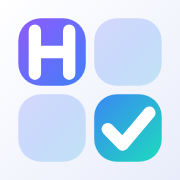
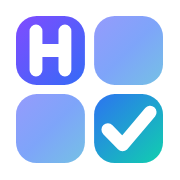
D2 아이콘 전면 적용 + 바이올렛·청록 팔레트 통일
Claude-Session: https://claude.ai/code/session_01B82UywTETwewTykhEM5Uby

diff --git a/style.css b/style.css
@@ -4,13 +4,13 @@
   --fs-1: 16px; --fs-2: 14px; --fs-3: 13px; --fs-4: 12px; --fs-5: 11px;
   --r-xs: 4px; --r-sm: 6px; --r-md: 8px; --r-lg: 12px; --r-xl: 16px; --r-pill: 99px;
   --bg: #ffffff; --bg2: #f5f6f8; --text: #1b1d21; --mut: #8b9098; --line: #ebedf0;
-  --accent: #2563eb; --sel: #f1f5ff; --sun: #e5484d; --sat: #2563eb;
+  --accent: #6d4aff; --accent2: #12c9b3; --grad: linear-gradient(135deg, #7c4dff 0%, #2f6df6 55%, #12c9b3 100%); --sel: #f4f1ff; --sun: #e5484d; --sat: #2f6df6;
   --font: "SUITE", -apple-system, BlinkMacSystemFont, "Segoe UI", "Malgun Gothic", "Apple SD Gothic Neo", "Noto Sans KR", sans-serif;
 }
-:root[data-theme="dark"] { color-scheme: dark; --bg: #16181c; --bg2: #1d2025; --text: #e8eaed; --mut: #8a9099; --line: #2a2e35; --accent: #5b8def; --sel: #1b2436; --sun: #ff6b6f; --sat: #6ea0ff; }
+:root[data-theme="dark"] { color-scheme: dark; --bg: #16181c; --bg2: #1d2025; --text: #e8eaed; --mut: #8a9099; --line: #2a2e35; --accent: #9b82ff; --sel: #241f3d; --sun: #ff6b6f; --sat: #6ea0ff; }
 :root[data-theme="light"] { color-scheme: light; }
 @media (prefers-color-scheme: dark) {
-  :root:not([data-theme="light"]) { color-scheme: dark; --bg: #16181c; --bg2: #1d2025; --text: #e8eaed; --mut: #8a9099; --line: #2a2e35; --accent: #5b8def; --sel: #1b2436; --sun: #ff6b6f; --sat: #6ea0ff; }
+  :root:not([data-theme="light"]) { color-scheme: dark; --bg: #16181c; --bg2: #1d2025; --text: #e8eaed; --mut: #8a9099; --line: #2a2e35; --accent: #9b82ff; --sel: #241f3d; --sun: #ff6b6f; --sat: #6ea0ff; }
 }
 * { box-sizing: border-box; }
 [hidden] { display: none !important; }
@@ -70,12 +70,12 @@ input[type=text]:focus, textarea:focus, select:focus { border-color: var(--accen
 .ct { display: flex; justify-content: space-between; align-items: center; height: 21px; flex: none; }
 .dn { font-size: 12px; line-height: 20px; }
 .cell.sun .dn { color: var(--sun); } .cell.sat .dn { color: var(--sat); }
-.cell.today .dn { background: var(--accent); color: #fff; border-radius: 99px; padding: 0 6px; min-width: 20px; text-align: center; }
+.cell.today .dn { background: var(--grad); color: #fff; border-radius: 99px; padding: 0 6px; min-width: 20px; text-align: center; }
 .sb { flex: 1; min-width: 0; display: flex; gap: 4px; align-items: center; margin: 0 4px; overflow: hidden; white-space: nowrap; font-size: 10px; color: var(--mut); }
 .sb i { font-style: normal; overflow: hidden; text-overflow: ellipsis; }
-.sb .hn { color: var(--sun); font-weight: 600; } .sb .tm { color: #0b7a53; }
-:root[data-theme="dark"] .sb .tm { color: #4fd1a1; }
-@media (prefers-color-scheme: dark) { :root:not([data-theme="light"]) .sb .tm { color: #4fd1a1; } }
+.sb .hn { color: var(--sun); font-weight: 600; } .sb .tm { color: #0b8f80; }
+:root[data-theme="dark"] .sb .tm { color: #3fe0cc; }
+@media (prefers-color-scheme: dark) { :root:not([data-theme="light"]) .sb .tm { color: #3fe0cc; } }
 .cell.hol .dn { color: var(--sun); }
 .seg { display: inline-flex; gap: 2px; background: var(--bg2); padding: 2px; border-radius: var(--r-md); }
 .seg button { padding: 2px 9px; border-radius: var(--r-sm); font-size: 12px; color: var(--mut); }
@@ -98,9 +98,9 @@ input[type=text]:focus, textarea:focus, select:focus { border-color: var(--accen
 .td.done .tt { text-decoration: line-through; opacity: .55; }
 .ed .td input { flex: 1; min-width: 0; border: 0; outline: 0; background: var(--tbg, transparent); font: inherit; color: var(--tfg, inherit); padding: 0 3px; border-radius: var(--r-xs); }
 .ed .td.done input { text-decoration: line-through; opacity: .55; }
-.gev { font-size: 11px; color: #0b7a53; background: color-mix(in srgb, #0b7a53 11%, transparent); border-radius: var(--r-xs); padding: 0 4px; margin: 1px 0; white-space: nowrap; overflow: hidden; text-overflow: ellipsis; }
-:root[data-theme="dark"] .gev { color: #4fd1a1; }
-@media (prefers-color-scheme: dark) { :root:not([data-theme="light"]) .gev { color: #4fd1a1; } }
+.gev { font-size: 11px; color: #0b8f80; background: color-mix(in srgb, #0b8f80 11%, transparent); border-radius: var(--r-xs); padding: 0 4px; margin: 1px 0; white-space: nowrap; overflow: hidden; text-overflow: ellipsis; }
+:root[data-theme="dark"] .gev { color: #3fe0cc; }
+@media (prefers-color-scheme: dark) { :root:not([data-theme="light"]) .gev { color: #3fe0cc; } }
 .dots { display: none; }
 
 /* 모바일 시트 / 모달 */
@@ -125,7 +125,7 @@ input[type=text]:focus, textarea:focus, select:focus { border-color: var(--accen
 @keyframes shake { 25% { transform: translateX(-5px); } 75% { transform: translateX(5px); } }
 .pv { min-height: 24px; margin-top: 7px; display: flex; flex-wrap: wrap; gap: 6px; align-items: center; font-size: 12px; }
 .pv.err { color: var(--sun); }
-.t-결석 { --tc: #e5484d; } .t-지각 { --tc: #d98a00; } .t-조퇴 { --tc: #2563eb; } .t-결과 { --tc: #8b5cf6; }
+.t-결석 { --tc: #e5484d; } .t-지각 { --tc: #d98a00; } .t-조퇴 { --tc: #2f6df6; } .t-결과 { --tc: #8b5cf6; }
 :root[data-theme="dark"] .t-조퇴 { --tc: #6ea0ff; } :root[data-theme="dark"] .t-결과 { --tc: #a78bfa; } :root[data-theme="dark"] .t-지각 { --tc: #f5a524; }
 @media (prefers-color-scheme: dark) { :root:not([data-theme="light"]) .t-조퇴 { --tc: #6ea0ff; } :root:not([data-theme="light"]) .t-결과 { --tc: #a78bfa; } :root:not([data-theme="light"]) .t-지각 { --tc: #f5a524; } }
 .chip { display: inline-block; font-size: 11px; line-height: 15px; padding: 1px 8px; border-radius: 99px; color: var(--tc); background: color-mix(in srgb, var(--tc) 12%, transparent); white-space: nowrap; }
@@ -163,7 +163,7 @@ input[type=text]:focus, textarea:focus, select:focus { border-color: var(--accen
 .login { height: 100%; display: flex; flex-direction: column; align-items: center; justify-content: center; gap: 10px; padding: 20px; text-align: center; }
 .login h1 { margin: 4px 0 0; font-size: 22px; } .login p { margin: 0 0 8px; }
 #toast { position: fixed; left: 50%; transform: translateX(-50%); bottom: calc(18px + env(safe-area-inset-bottom)); background: #23262b; color: #fff; padding: 9px 14px; border-radius: 10px; display: flex; gap: 14px; align-items: center; z-index: 60; font-size: 13px; max-width: 92vw; box-shadow: 0 6px 20px rgba(0,0,0,.25); }
-#toast button { color: #8ab4ff; font-weight: 600; white-space: nowrap; }
+#toast button { color: #b8a8ff; font-weight: 600; white-space: nowrap; }
 
 /* 바탕화면 위젯 모드 (?widget=1) — 데스크톱 래퍼에서 사용 */
 html.widget, body.widget { background: transparent; }
@@ -203,7 +203,7 @@ body.wedit #wmove { background: var(--accent); color: #fff; }
   body:not(.widget) .dots { display: flex; gap: 3px; flex-wrap: wrap; justify-content: center; margin-top: 3px; }
   body:not(.widget) .dots i { width: 6px; height: 6px; border-radius: 50%; background: var(--text); opacity: .75; }
   body:not(.widget) .dots i.on { background: transparent; border: 1px solid var(--mut); }
-  body:not(.widget) .dots i.g { background: #0b7a53; }
+  body:not(.widget) .dots i.g { background: #0b8f80; }
   body:not(.widget) .att { padding: 8px 10px 28px; }
   body:not(.widget) .rr { flex-wrap: wrap; row-gap: 2px; }
   body:not(.widget) .rs { flex-basis: 100%; order: 9; white-space: normal; color: var(--mut); }
@@ -268,7 +268,7 @@ button, input, select, textarea { font-family: inherit; }
 /* 출결 입력줄 */
 .qrow { display: flex; gap: 8px; align-items: stretch; }
 .qrow input { flex: 1; min-width: 0; }
-.qgo { flex: none; width: 46px; border-radius: var(--r-md); background: var(--accent); color: #fff; display: flex; align-items: center; justify-content: center; }
+.qgo { flex: none; width: 46px; border-radius: var(--r-md); background: var(--grad); color: #fff; display: flex; align-items: center; justify-content: center; }
 .qgo .ic svg { width: 20px; height: 20px; }
 .qgo:hover { filter: brightness(1.08); }
 .pv { background: var(--bg2); border-radius: var(--r-lg); padding: 7px 12px; min-height: 34px; margin-top: 8px; }

diff --git a/app.js b/app.js
@@ -69,7 +69,7 @@
     s.innerHTML = `<svg viewBox="0 0 24 24" fill="none" stroke="currentColor" stroke-width="2.7" stroke-linecap="round" stroke-linejoin="round">${ICON[name]}</svg>`;
     return s;
   }
-  const LOGO = '<svg width="64" height="64" xmlns="http://www.w3.org/2000/svg" viewBox="0 0 64 64"><defs><linearGradient id="lg-bb" x1="0" y1="0" x2="1" y2="1"><stop offset="0" stop-color="#ffffff"/><stop offset="1" stop-color="#e9edfb"/></linearGradient><linearGradient id="lg-bg" gradientUnits="userSpaceOnUse" x1="8" y1="8" x2="56" y2="56"><stop offset="0" stop-color="#8b5cff"/><stop offset=".5" stop-color="#3b82f6"/><stop offset="1" stop-color="#1fd6c1"/></linearGradient></defs><rect width="64" height="64" rx="15" fill="url(#lg-bb)"/><rect x="33.5" y="6.5" width="24" height="24" rx="8" fill="url(#lg-bg)" opacity="0.24"/><rect x="6.5" y="33.5" width="24" height="24" rx="8" fill="url(#lg-bg)" opacity="0.24"/><rect x="6.5" y="6.5" width="24" height="24" rx="8" fill="url(#lg-bg)" opacity="1"/><rect x="33.5" y="33.5" width="24" height="24" rx="8" fill="url(#lg-bg)" opacity="1"/><path d="M12.4 10.9v15.3M24.6 10.9v15.3M12.4 18.5h12.2" fill="none" stroke="#fff" stroke-width="4.4" stroke-linecap="round"/><path d="M38.3 45.9l5.3 5.5 9.5-11.3" fill="none" stroke="#fff" stroke-width="4.4" stroke-linecap="round" stroke-linejoin="round"/></svg>';
+  const LOGO = '<svg width="64" height="64" xmlns="http://www.w3.org/2000/svg" viewBox="0 0 64 64"><defs><linearGradient id="lg-g" gradientUnits="userSpaceOnUse" x1="2" y1="2" x2="62" y2="62"><stop offset="0" stop-color="#7c4dff"/><stop offset=".5" stop-color="#2f6df6"/><stop offset="1" stop-color="#12c9b3"/></linearGradient></defs><rect x="34" y="0" width="30" height="30" rx="9" fill="url(#lg-g)" opacity="0.62"/><rect x="0" y="34" width="30" height="30" rx="9" fill="url(#lg-g)" opacity="0.62"/><rect x="0" y="0" width="30" height="30" rx="9" fill="url(#lg-g)"/><rect x="34" y="34" width="30" height="30" rx="9" fill="url(#lg-g)"/><path d="M8.7 6.5v17M21.3 6.5v17M8.7 15h12.6" fill="none" stroke="#fff" stroke-width="5.6" stroke-linecap="round"/><path d="M40 49.5l6.4 6.6 12-14.2" fill="none" stroke="#fff" stroke-width="5.6" stroke-linecap="round" stroke-linejoin="round"/></svg>';
 
   /* 한글 입력(IME) 중 엔터 처리: 마지막 글자가 확정된 뒤 한 번에 동작하도록 */
   function onEnter(inp, fn) {
@@ -630,7 +630,7 @@
   }
 
   /* ---------- 글자색 · 배경색 팔레트 ---------- */
-  const FG = [['', '기본'], ['#e5484d', '빨강'], ['#d98a00', '주황'], ['#2e9e5b', '초록'], ['#2563eb', '파랑'], ['#8b5cf6', '보라'], ['#d6409f', '분홍'], ['#8b9098', '회색']];
+  const FG = [['', '기본'], ['#e5484d', '빨강'], ['#d98a00', '주황'], ['#2e9e5b', '초록'], ['#2f6df6', '파랑'], ['#8b5cf6', '보라'], ['#d6409f', '분홍'], ['#8b9098', '회색']];
   const BGC = [['', '없음'], ['rgba(250,204,21,.38)', '노랑'], ['rgba(251,146,60,.32)', '주황'], ['rgba(239,68,68,.24)', '빨강'], ['rgba(34,197,94,.26)', '초록'], ['rgba(59,130,246,.26)', '파랑'], ['rgba(139,92,246,.26)', '보라'], ['rgba(236,72,153,.24)', '분홍'], ['rgba(128,128,128,.28)', '회색']];
   function swatches(onPick, cur) {
     const wrap = el('div', { class: 'sw' });

diff --git a/book.css b/book.css
@@ -1,5 +1,5 @@
-:root { color-scheme: light dark; --bg:#fff; --bg2:#f5f6f8; --text:#1b1d21; --mut:#8b9098; --line:#ebedf0; --accent:#2563eb; --sun:#e5484d; }
-@media (prefers-color-scheme: dark) { :root { --bg:#16181c; --bg2:#1d2025; --text:#e8eaed; --mut:#8a9099; --line:#2a2e35; --accent:#5b8def; --sun:#ff6b6f; } }
+:root { color-scheme: light dark; --bg:#fff; --bg2:#f5f6f8; --text:#1b1d21; --mut:#8b9098; --line:#ebedf0; --accent:#6d4aff; --sun:#e5484d; }
+@media (prefers-color-scheme: dark) { :root { --bg:#16181c; --bg2:#1d2025; --text:#e8eaed; --mut:#8a9099; --line:#2a2e35; --accent:#9b82ff; --sun:#ff6b6f; } }
 * { box-sizing: border-box; }
 @font-face { font-family: SUITE; src: url(fonts/SUITE-Variable.woff2) format('woff2'); font-weight: 100 900; font-display: swap; }
 body { margin: 0; font: 15px/1.5 SUITE, system-ui, -apple-system, 'Segoe UI', 'Noto Sans KR', sans-serif; color: var(--text); background: var(--bg); }

diff --git a/sw.js b/sw.js
@@ -1,6 +1,6 @@
 // HAGISIRO 서비스워커 — 앱 껍데기를 캐시해서 오프라인에서도 열리게 함
 // (데이터 자체는 Firestore가 기기에 따로 캐시해요)
-const CACHE = 'hagisiro-v24';
+const CACHE = 'hagisiro-v25';
 const SHELL = ['./', 'index.html', 'style.css', 'app.js', 'parser.js', 'lunar.js', 'cloud.js', 'config.js', 'manifest.json', 'book.html', 'book.js', 'book.css', 'icons/icon.svg', 'icons/icon-192.png', 'fonts/SUITE-Variable.woff2'];
 
 self.addEventListener('install', (e) => {

diff --git a/index.html b/index.html
@@ -3,7 +3,7 @@
 <head>
 <meta charset="utf-8">
 <meta name="viewport" content="width=device-width,initial-scale=1,viewport-fit=cover">
-<meta name="theme-color" content="#2563eb">
+<meta name="theme-color" content="#6d4aff">
 <meta name="apple-mobile-web-app-capable" content="yes">
 <meta name="mobile-web-app-capable" content="yes">
 <meta name="apple-mobile-web-app-title" content="HAGISIRO">

diff --git a/book.html b/book.html
@@ -3,7 +3,7 @@
 <head>
 <meta charset="utf-8">
 <meta name="viewport" content="width=device-width,initial-scale=1,viewport-fit=cover">
-<meta name="theme-color" content="#2563eb">
+<meta name="theme-color" content="#6d4aff">
 <title>상담 신청</title>
 <link rel="icon" href="icons/icon.svg" type="image/svg+xml">
 <link rel="stylesheet" href="book.css">
